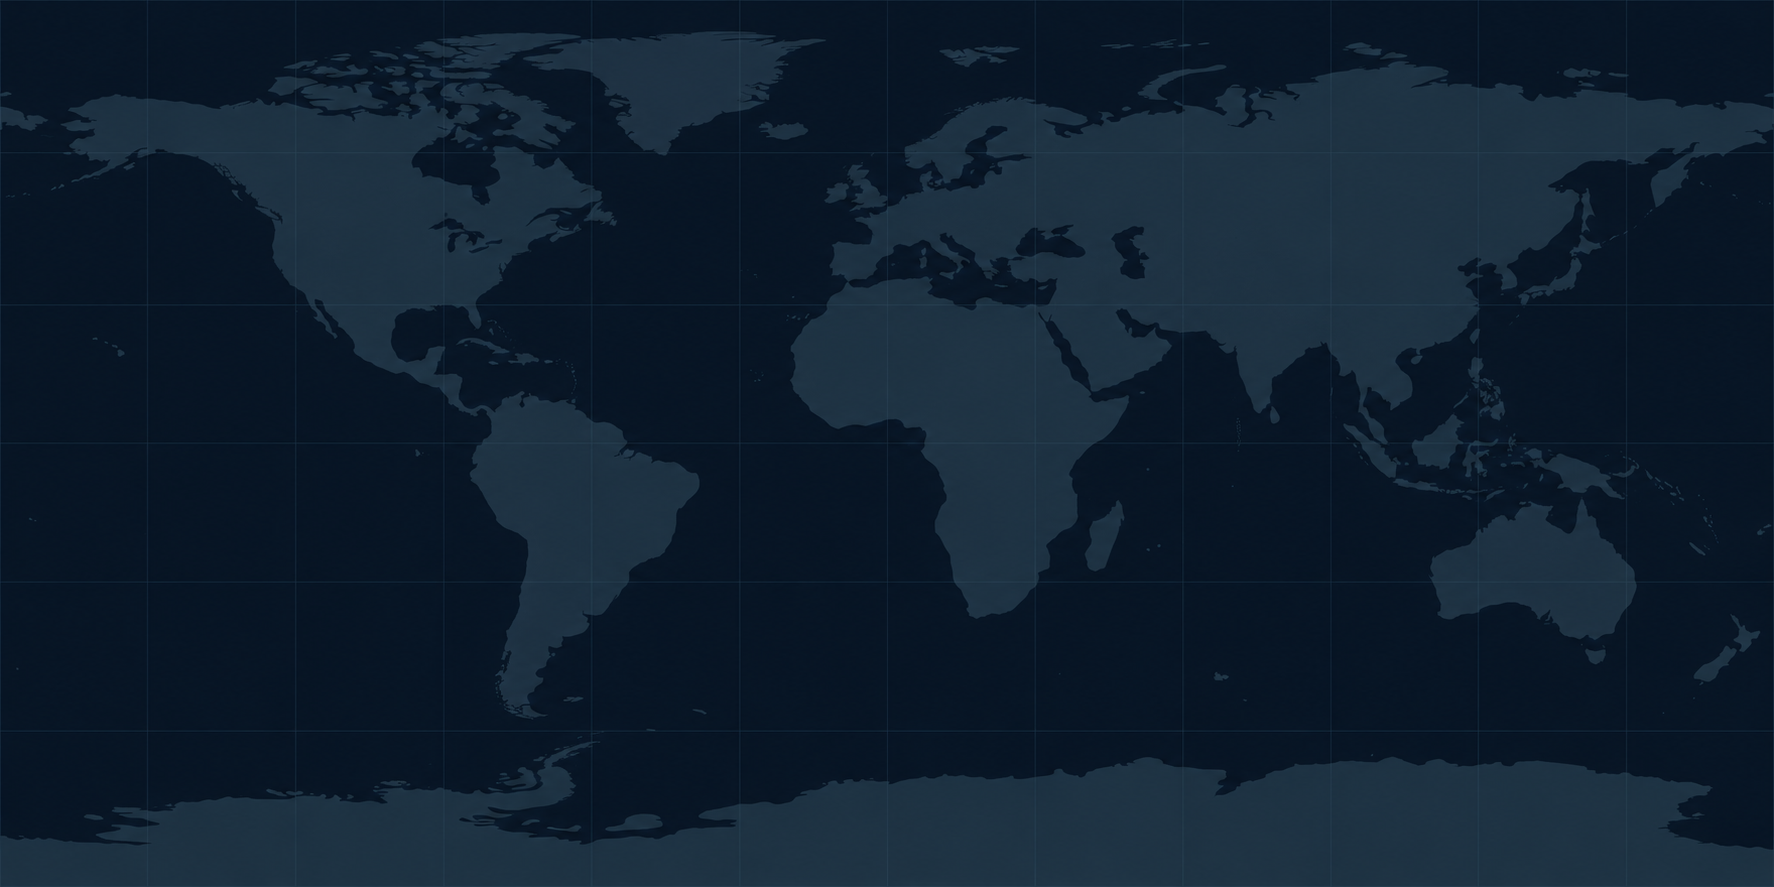
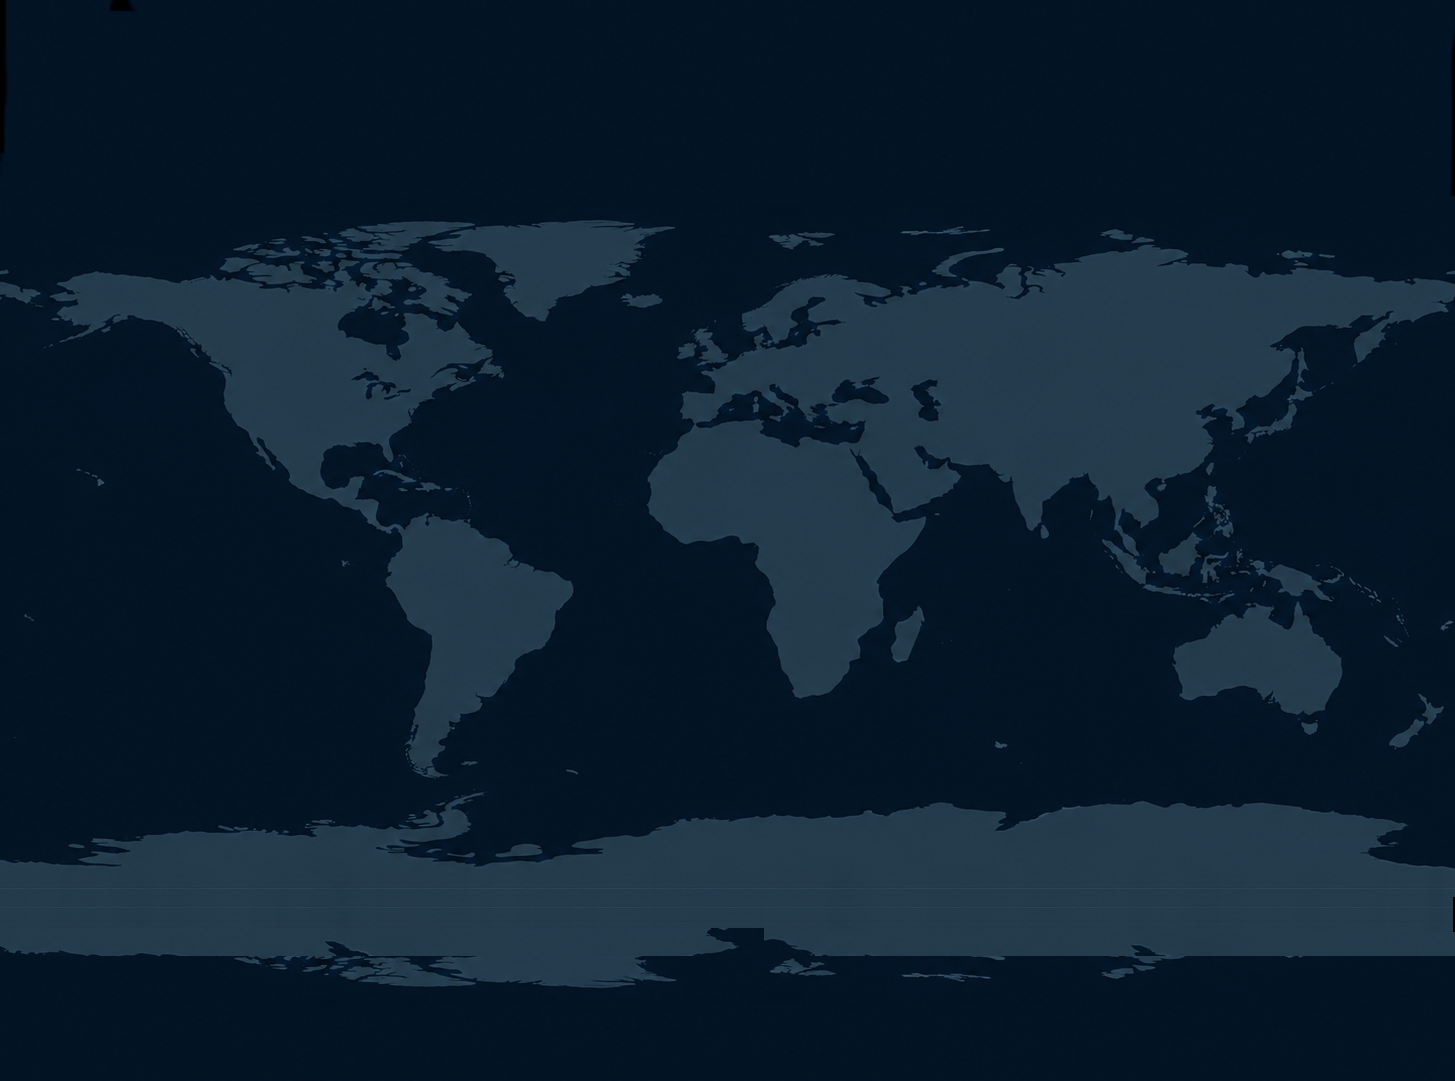
fix(dashboard): detect map content region by row variance

diff --git a/frontend/src/pages/Dashboard.jsx b/frontend/src/pages/Dashboard.jsx
@@ -103,32 +103,38 @@ export default function Dashboard() {
           const ctx = canvas.getContext('2d');
           ctx.drawImage(img, 0, 0);
           const data = ctx.getImageData(0, 0, iw, ih).data;
-          let minX = iw,
-            maxX = 0,
-            minY = ih,
-            maxY = 0;
-          let found = false;
-          for (let y = 0; y < ih; y++) {
-            for (let x = 0; x < iw; x++) {
+          // Detect the map content region by row variance: padding rows are
+          // near-uniform (low std dev), map rows have texture (landmasses,
+          // ocean, grid lines -> higher std dev). This handles images where
+          // the map is centered with dark padding top/bottom.
+          let firstRow = -1;
+          let lastRow = -1;
+          const ROW_STEP = Math.max(1, Math.floor(ih / 200));
+          for (let y = 0; y < ih; y += ROW_STEP) {
+            let sum = 0,
+              sumsq = 0,
+              n = 0;
+            for (let x = 0; x < iw; x += 4) {
               const i = (y * iw + x) * 4;
-              const r = data[i],
-                g = data[i + 1],
-                b = data[i + 2];
-              // Background = near-black (low brightness)
-              if (r + g + b > 40) {
-                found = true;
-                if (x < minX) minX = x;
-                if (x > maxX) maxX = x;
-                if (y < minY) minY = y;
-                if (y > maxY) maxY = y;
-              }
+              const v = (data[i] + data[i + 1] + data[i + 2]) / 3;
+              sum += v;
+              sumsq += v * v;
+              n++;
+            }
+            const mean = sum / n;
+            const variance = sumsq / n - mean * mean;
+            const std = Math.sqrt(Math.max(0, variance));
+            if (std > 12) {
+              if (firstRow === -1) firstRow = y;
+              lastRow = y;
             }
           }
-          if (found) {
-            cx = minX;
-            cy = minY;
-            cw2 = maxX - minX + 1;
-            ch2 = maxY - minY + 1;
+          if (firstRow !== -1 && lastRow >= firstRow) {
+            cy = firstRow;
+            ch2 = lastRow - firstRow + ROW_STEP;
+            if (cy + ch2 > ih) ch2 = ih - cy;
+            cx = 0;
+            cw2 = iw;
           }
         } catch {
           // CORS or other issue; fall back to full image
